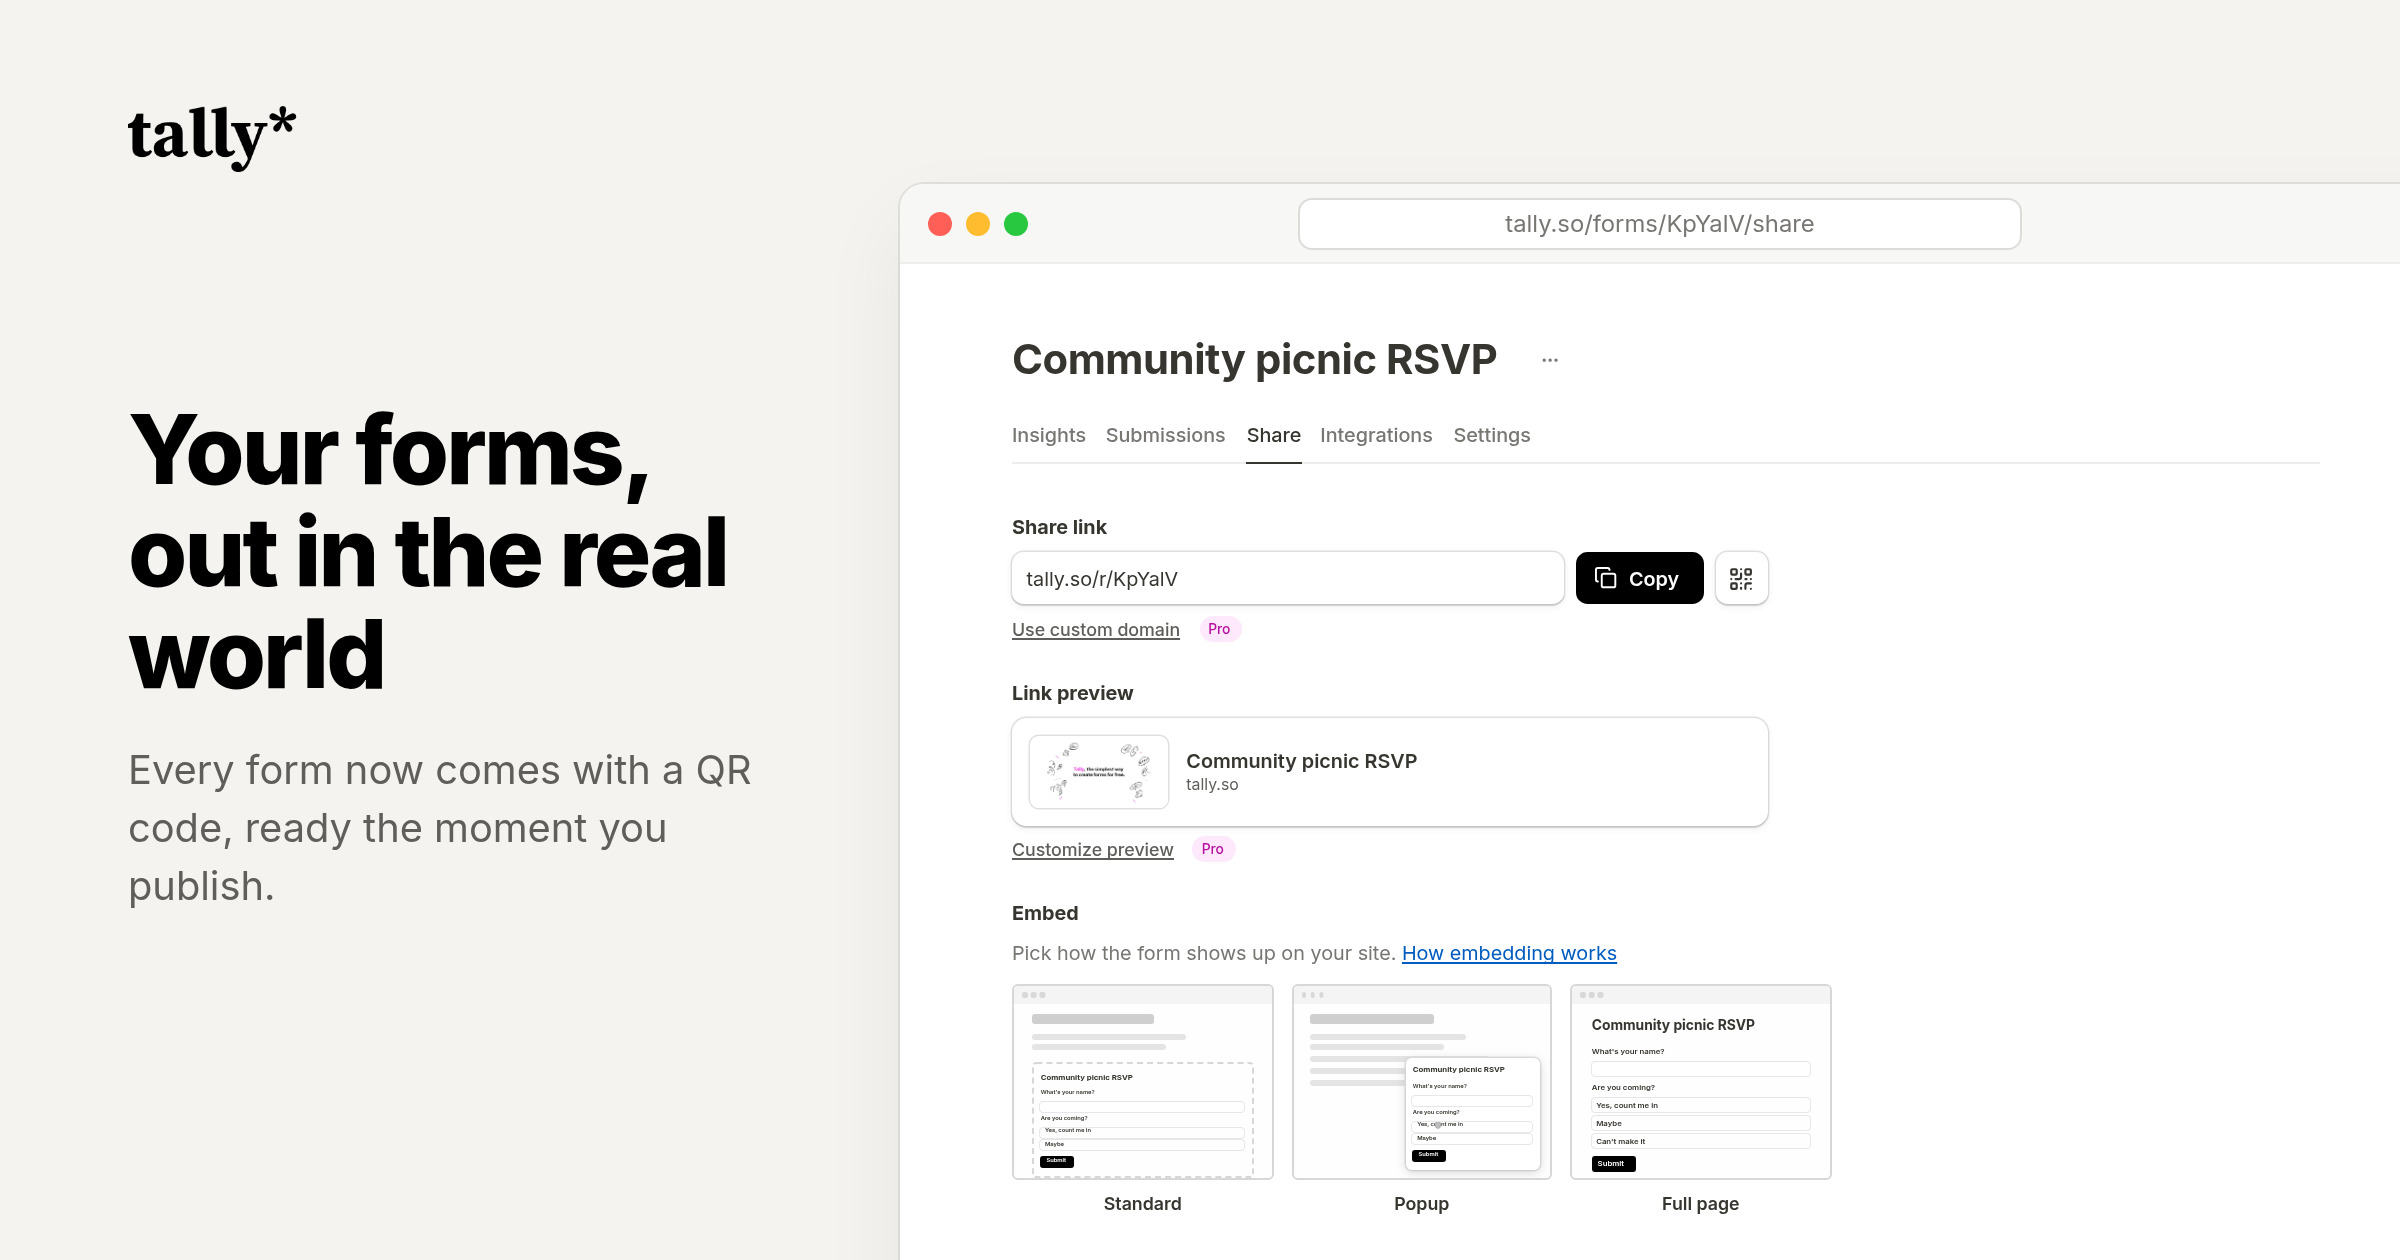
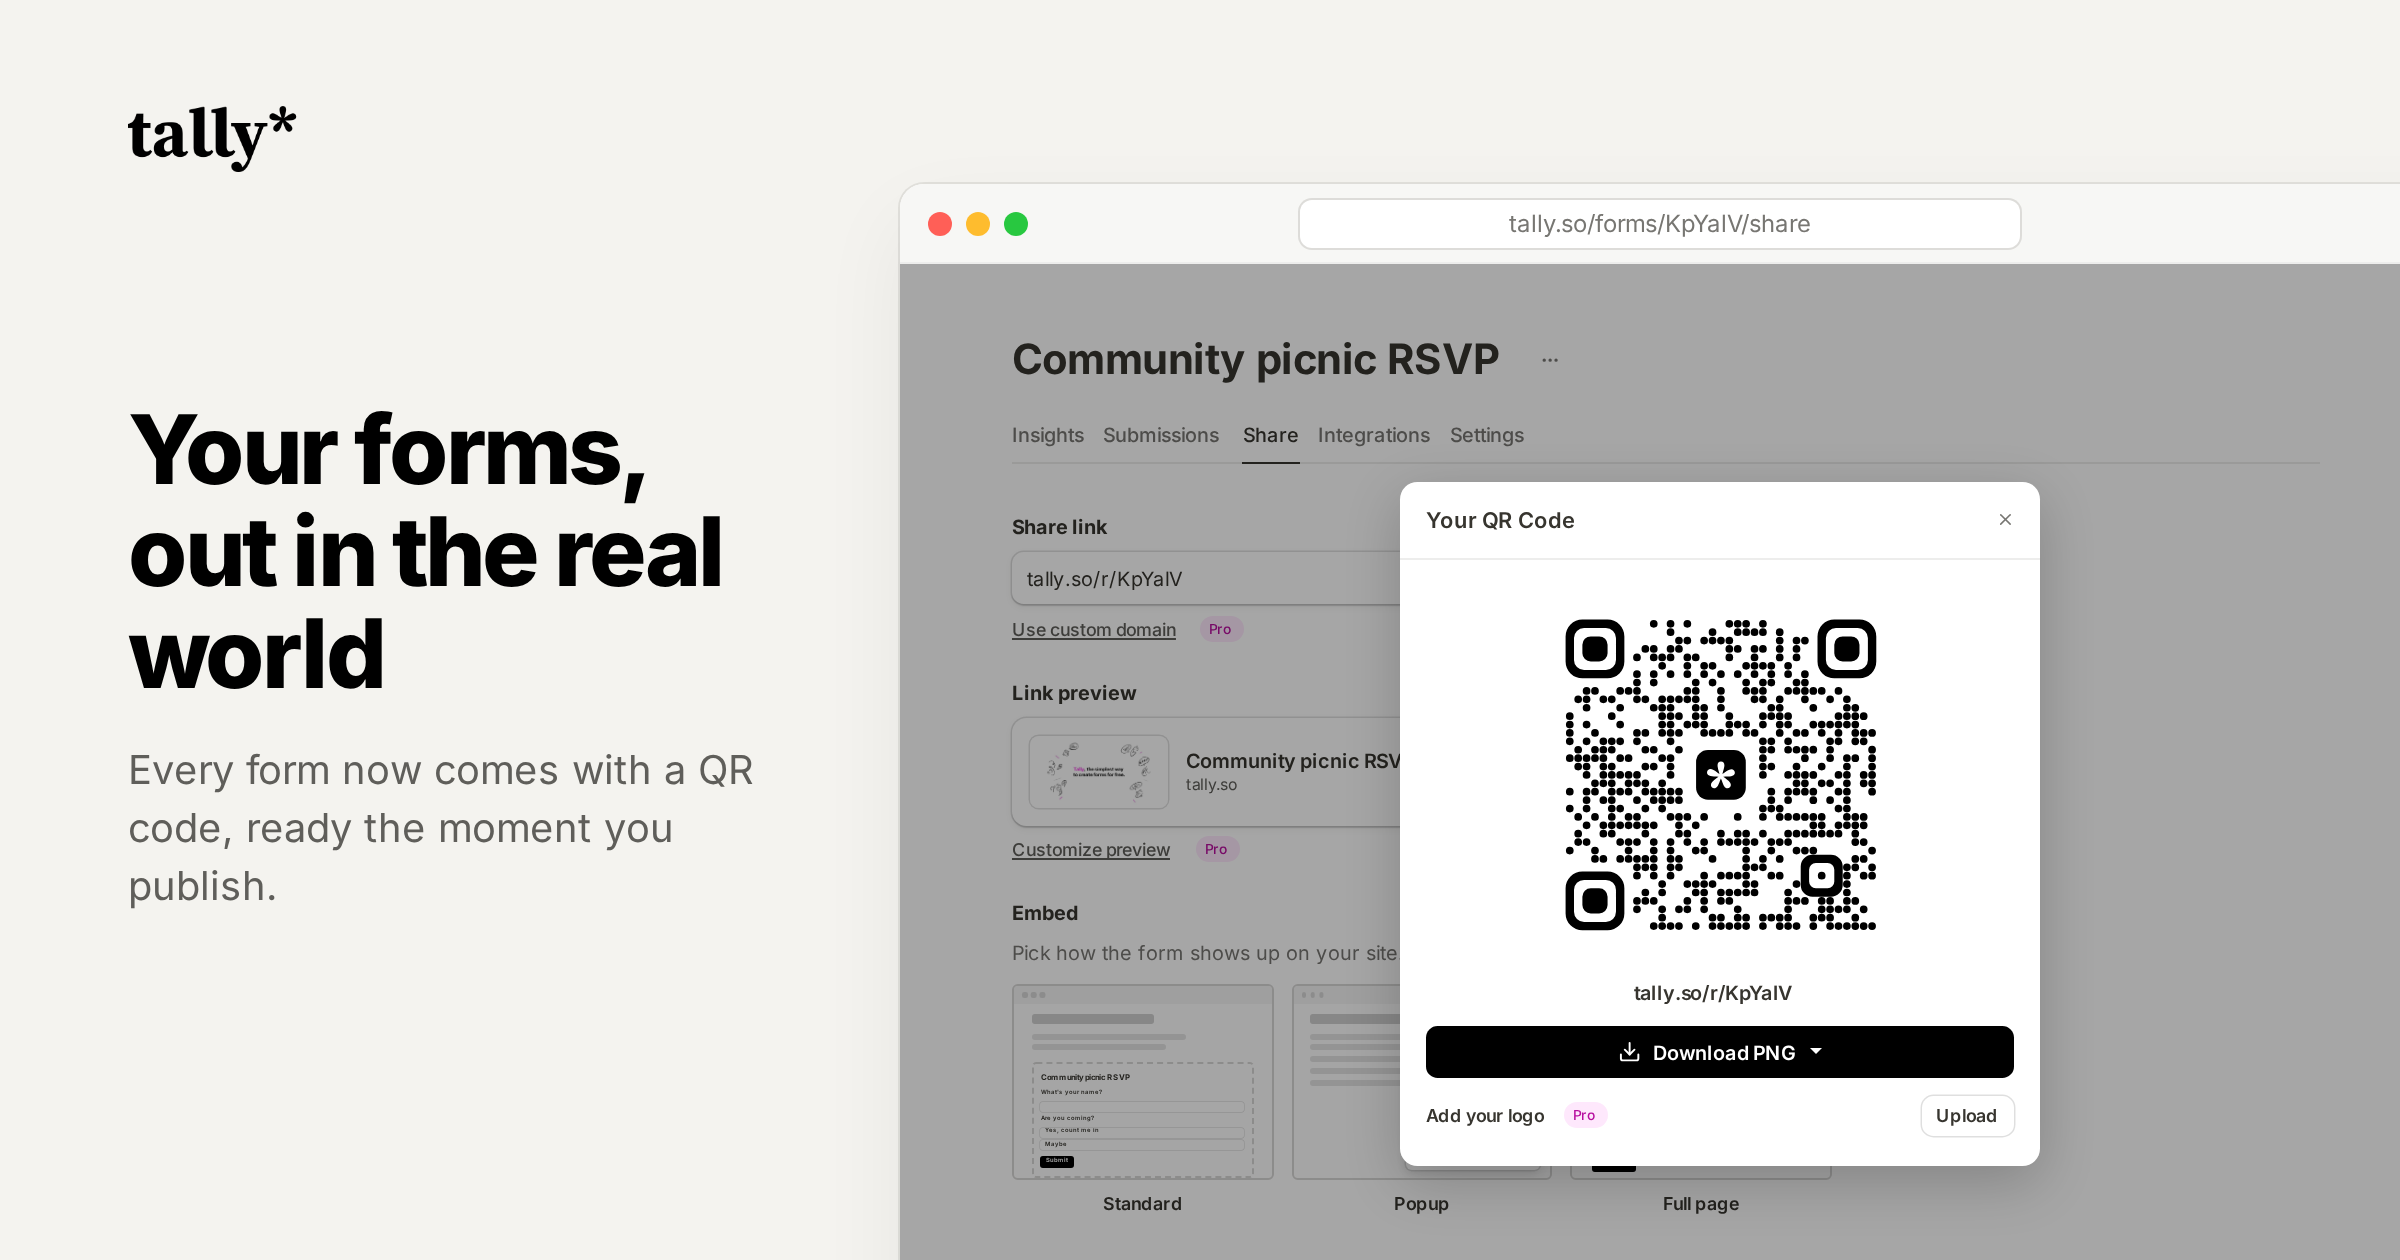
Changelog image: Your QR Code open over the Share tab

diff --git a/src/Visuals.tsx b/src/Visuals.tsx
@@ -1,6 +1,6 @@
 import { useRef, useState, type CSSProperties, type ReactNode } from 'react'
 import { toPng } from 'html-to-image'
-import { Download, Check, Copy, Ellipsis, QrCode } from 'lucide-react'
+import { Download, Check, Copy, Ellipsis, QrCode, X } from 'lucide-react'
 import { CoverArt, QrBox, VISUAL_URL } from './coverArt'
 import { TallyMark } from './chrome'
 import { GuideCard, useGuide } from './guide'
@@ -97,6 +97,23 @@ function MiniForm({ big = false, options = ['Yes, count me in', 'Maybe'], dot = 
   )
 }
 
+/** Your QR Code, open over the Share tab: the real, scannable code, its link, Download and the logo row. */
+function QrDialogMock() {
+  return (
+    <div className="cm-qr-scrim" data-layer="Your QR Code, open" aria-hidden>
+      <div className="cm-qr-dialog">
+        <div className="cm-qr-head"><b>Your QR Code</b><X aria-hidden /></div>
+        <div className="cm-qr-body">
+          <span className="cm-qr-code"><QrBox size={260} url={VISUAL_URL('qr-changelog')} label="QR code" /></span>
+          <span className="cm-qr-link">tally.so/r/KpYalV</span>
+          <span className="cm-qr-dl"><Download aria-hidden />Download PNG<i className="cm-qr-caret" /></span>
+          <span className="cm-qr-logo"><b>Add your logo</b><span className="cm-pro">Pro</span><span className="cm-qr-upload">Upload</span></span>
+        </div>
+      </div>
+    </div>
+  )
+}
+
 /** The Share tab as it looks now (Simple, my proposal): Share link with Copy and the QR code button, Use custom domain, the link preview with Customize preview, then Embed with no layout picked yet. */
 function ShareTabMock() {
   return (
@@ -176,6 +193,7 @@ function Changelog() {
         </div>
         <div className="browser-body">
           <ShareTabMock />
+          <QrDialogMock />
         </div>
       </div>
     </div>
@@ -278,7 +296,7 @@ function ChangelogGif() {
       <div className="v-frame" style={{ aspectRatio: '3 / 2' }}>
         <img src={GIF} alt="On the Share tab, Copy copies the link, and the QR code button next to it opens Your QR Code, which downloads as a PNG. In Embed, picking Standard shows its code with Copy code. Insights then lists Your QR Code next to Direct / None in Sources." style={{ width: '100%', height: '100%', display: 'block' }} />
       </div>
-      <div className="v-caption small"><p>For the changelog entry, next to the image above. It starts on the Share tab, copies the link, opens Your QR Code from the button next to Copy and downloads it, picks Standard in Embed and copies its code, then ends on Insights with Your QR Code in Sources. Social posts and link previews keep using the static image.</p></div>
+      <div className="v-caption small"><p>For the changelog entry, next to the image above. The still shows the Share tab with Your QR Code open. The GIF starts on the Share tab, copies the link, opens Your QR Code from the button next to Copy and downloads it, picks Standard in Embed and copies its code, then ends on Insights with Your QR Code in Sources. Social posts and link previews keep using the static image.</p></div>
     </section>
   )
 }

diff --git a/src/visuals.css b/src/visuals.css
@@ -121,3 +121,20 @@ body { background: #fafafa; }
 .mf.is-big .mf-in, .mf.is-big .mf-opt { height: 6.54px; }
 .mf.is-big .mf-opt, .mf.is-big .mf-sub span { font-size: 4.72px; line-height: 5.67px; }
 
+
+/* Your QR Code, open over the Share tab in the changelog window (same 0.7267 scale as .cm) */
+.cm-qr-scrim { position: absolute; inset: 0; display: flex; align-items: center; justify-content: center; background: rgba(0,0,0,.35); }
+.cm-qr-dialog { width: 319.75px; border-radius: 8.72px; background: #fff; box-shadow: rgba(0,0,0,.2) 0 8px 28px; overflow: hidden; display: flex; flex-direction: column; padding-bottom: 14.53px; }
+.cm-qr-head { height: 38.51px; display: flex; align-items: center; justify-content: space-between; padding: 0 12.71px; border-bottom: 0.727px solid #ededec; }
+.cm-qr-head b { font-size: 11.63px; font-weight: 600; }
+.cm-qr-head svg { width: 9.45px; height: 9.45px; color: #777672; }
+.cm-qr-body { padding: 12.71px 12.71px 0; display: flex; flex-direction: column; align-items: center; gap: 8.72px; }
+.cm-qr-code { display: block; }
+.cm-qr-code svg { display: block; width: 188.94px; height: 188.94px; }
+.cm-qr-link { font-size: 10.9px; font-weight: 600; letter-spacing: -0.109px; }
+.cm-qr-dl { align-self: stretch; height: 26.16px; border-radius: 5.81px; background: #000; color: #fff; display: flex; align-items: center; justify-content: center; gap: 5.45px; font-size: 10.9px; font-weight: 600; }
+.cm-qr-dl svg { width: 11.63px; height: 11.63px; }
+.cm-qr-caret { width: 0; height: 0; border-left: 3.27px solid transparent; border-right: 3.27px solid transparent; border-top: 3.63px solid #fff; margin-left: 1.82px; }
+.cm-qr-logo { align-self: stretch; display: flex; align-items: center; gap: 4.36px; }
+.cm-qr-logo b { font-size: 9.45px; font-weight: 600; }
+.cm-qr-upload { margin-left: auto; height: 20.35px; padding: 0 7.27px; border-radius: 5.81px; background: #fff; box-shadow: #dfdfdf 0 0 0 0.727px; font-size: 9.45px; font-weight: 600; display: inline-flex; align-items: center; }
